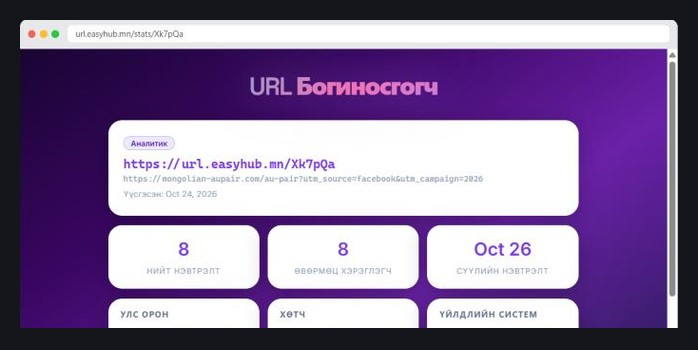
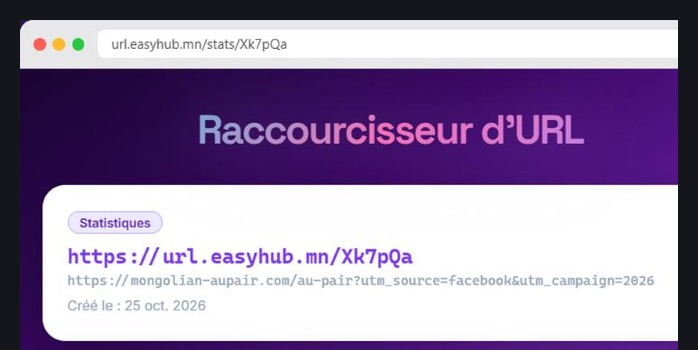
correctURL demo in French
Interface, messages, statistics labels, sample countries and dates of the
link shortener demo are now in French; guide steps and poster updated.

diff --git a/src/components/InternshipDemos.js b/src/components/InternshipDemos.js
@@ -1603,7 +1603,7 @@ const randomCode = (len = 6) =>
 
 // Validation of app/api/shorten/route.ts
 function validate(url) {
-  if (!url.trim()) return "URL оруулна уу";
+  if (!url.trim()) return "Veuillez saisir une URL";
   try {
     const parsed = new URL(url.startsWith("http") ? url : "https://" + url);
     const ok =
@@ -1612,9 +1612,9 @@ function validate(url) {
         parsed.hostname,
       ) &&
       (parsed.protocol === "http:" || parsed.protocol === "https:");
-    return ok ? "" : "Invalid URL format";
+    return ok ? "" : "Format d’URL invalide";
   } catch {
-    return "Invalid URL format";
+    return "Format d’URL invalide";
   }
 }
 
@@ -1647,13 +1647,13 @@ function detect() {
 function seedLinks() {
   const base = Date.now() - 3 * 86400000;
   const sample = [
-    ["Chrome", "Android", "Mongolia", "Ulaanbaatar"],
-    ["Safari", "iOS", "Mongolia", "Ulaanbaatar"],
-    ["Chrome", "Windows", "Mongolia", "Darkhan"],
-    ["Chrome", "Android", "Germany", "Berlin"],
-    ["Edge", "Windows", "Mongolia", "Ulaanbaatar"],
-    ["Safari", "iOS", "Austria", "Vienna"],
-    ["Chrome", "Android", "Mongolia", "Erdenet"],
+    ["Chrome", "Android", "Mongolie", "Oulan-Bator"],
+    ["Safari", "iOS", "Mongolie", "Oulan-Bator"],
+    ["Chrome", "Windows", "Mongolie", "Darkhan"],
+    ["Chrome", "Android", "Allemagne", "Berlin"],
+    ["Edge", "Windows", "Mongolie", "Oulan-Bator"],
+    ["Safari", "iOS", "Autriche", "Vienne"],
+    ["Chrome", "Android", "Mongolie", "Erdenet"],
     ["Firefox", "Linux", "France", "Limoges"],
   ];
   return [
@@ -1680,7 +1680,7 @@ function BarList({ visits, keyName }) {
   });
   const items = Object.entries(counts).sort((a, b) => b[1] - a[1]);
   const max = items.length ? items[0][1] : 1;
-  if (!items.length) return <p className="cu__no-data">Мэдээлэл байхгүй</p>;
+  if (!items.length) return <p className="cu__no-data">Aucune donnée</p>;
   return (
     <ul className="cu__bars">
       {items.map(([name, n]) => (
@@ -1766,7 +1766,7 @@ export function ShortenerDemo() {
   };
 
   const link = links.find((l) => l.code === statsCode);
-  const fmt = (d, o) => new Date(d).toLocaleString("mn-MN", o);
+  const fmt = (d, o) => new Date(d).toLocaleString("fr-FR", o);
   const urlBar =
     page === "home" ? "" : page === "links" ? "links" : `stats/${statsCode}`;
 
@@ -1774,9 +1774,9 @@ export function ShortenerDemo() {
     <BrowserFrame url={`${HOST}/${urlBar}`} className="cu-frame">
       <div className="cu">
         <header className="cu__header">
-          <h1>URL Богиносгогч</h1>
+          <h1>Raccourcisseur d’URL</h1>
           {page !== "stats" && (
-            <p>Урт URL-аа богиносгоод цэвэрхэн линк аваарай</p>
+            <p>Raccourcissez vos longues URL et obtenez un lien propre</p>
           )}
         </header>
 
@@ -1786,7 +1786,7 @@ export function ShortenerDemo() {
               value={input}
               onChange={(e) => setInput(e.target.value)}
               onKeyDown={(e) => e.ctrlKey && e.key === "Enter" && shorten()}
-              placeholder="Урт URL-аа энд буулгаарай..."
+              placeholder="Collez votre longue URL ici…"
               aria-label="URL"
             />
             {error && <p className="cu__err">{error}</p>}
@@ -1796,13 +1796,13 @@ export function ShortenerDemo() {
                 onClick={shorten}
                 disabled={loading}
               >
-                {loading ? "Богиносгож байна..." : "Богиносгох"}
+                {loading ? "Raccourcissement…" : "Raccourcir"}
               </button>
               <button
                 className="cu__btn cu__btn--ghost"
                 onClick={() => setPage("links")}
               >
-                Миний линкүүд →
+                Mes liens →
               </button>
               <button
                 className="cu__btn cu__btn--ghost cu__btn--try"
@@ -1825,20 +1825,20 @@ export function ShortenerDemo() {
                 className="cu__btn cu__btn--primary"
                 onClick={() => setPage("home")}
               >
-                + Шинэ URL богиносгох
+                + Raccourcir une nouvelle URL
               </button>
             </div>
             {links.length === 0 && (
               <div className="cu__card cu__empty">
-                Линк байхгүй байна. "+ Шинэ URL богиносгох" дарж эхлээрэй.
+                Aucun lien. Cliquez sur « + Raccourcir une nouvelle URL » pour commencer.
               </div>
             )}
             {links.map((l) => (
               <div className="cu__card cu__link" key={l.code}>
                 <div className="cu__link-top">
-                  <span className="cu__badge">Богино линк</span>
+                  <span className="cu__badge">Lien court</span>
                   <span className="cu__visits">
-                    {l.visits.length} нэвтэрсэн
+                    {l.visits.length} visites
                   </span>
                 </div>
                 <button
@@ -1854,13 +1854,13 @@ export function ShortenerDemo() {
                     className="cu__btn cu__btn--primary"
                     onClick={() => visit(l.code)}
                   >
-                    Нээх →
+                    Ouvrir →
                   </button>
                   <button
                     className={`cu__copy ${copied === l.code ? "is-copied" : ""}`}
                     onClick={() => copy(l.code)}
                   >
-                    {copied === l.code ? "✓ Хуулагдлаа" : "Хуулах"}
+                    {copied === l.code ? "✓ Copié" : "Copier"}
                   </button>
                   <button
                     className="cu__btn cu__btn--ghost"
@@ -1869,7 +1869,7 @@ export function ShortenerDemo() {
                       setPage("stats");
                     }}
                   >
-                    Аналитик
+                    Statistiques
                   </button>
                   <button
                     className="cu__delete"
@@ -1889,13 +1889,13 @@ export function ShortenerDemo() {
         {page === "stats" && link && (
           <>
             <div className="cu__card">
-              <span className="cu__badge cu__badge--purple">Аналитик</span>
+              <span className="cu__badge cu__badge--purple">Statistiques</span>
               <p className="cu__stats-short">
                 https://{HOST}/{link.code}
               </p>
               <p className="cu__orig">{link.originalUrl}</p>
               <p className="cu__meta">
-                Үүсгэсэн:{" "}
+                Créé le :{" "}
                 {fmt(link.createdAt, {
                   year: "numeric",
                   month: "short",
@@ -1905,14 +1905,14 @@ export function ShortenerDemo() {
             </div>
             <div className="cu__stat-grid">
               {[
-                ["Нийт нэвтрэлт", link.visits.length],
+                ["Visites totales", link.visits.length],
                 [
-                  "Өвөрмөц хэрэглэгч",
+                  "Visiteurs uniques",
                   new Set(link.visits.map((v) => v.browser + v.os + v.city))
                     .size,
                 ],
                 [
-                  "Сүүлийн нэвтрэлт",
+                  "Dernière visite",
                   link.visits.length
                     ? fmt(link.visits[link.visits.length - 1].at, {
                         month: "short",
@@ -1929,9 +1929,9 @@ export function ShortenerDemo() {
             </div>
             <div className="cu__charts">
               {[
-                ["Улс орон", "country"],
-                ["Хөтч", "browser"],
-                ["Үйлдлийн систем", "os"],
+                ["Pays", "country"],
+                ["Navigateur", "browser"],
+                ["Système", "os"],
               ].map(([t, k]) => (
                 <div className="cu__card" key={k}>
                   <h2>{t}</h2>
@@ -1941,16 +1941,16 @@ export function ShortenerDemo() {
             </div>
             {link.visits.length > 0 && (
               <div className="cu__card">
-                <h2>Сүүлийн нэвтрэлтүүд</h2>
+                <h2>Dernières visites</h2>
                 <div className="cu__table-wrap">
                   <table className="cu__table">
                     <thead>
                       <tr>
-                        <th>Цаг</th>
-                        <th>Хөтч</th>
-                        <th>ҮС</th>
-                        <th>Улс</th>
-                        <th>Хот</th>
+                        <th>Date</th>
+                        <th>Navigateur</th>
+                        <th>Système</th>
+                        <th>Pays</th>
+                        <th>Ville</th>
                       </tr>
                     </thead>
                     <tbody>
@@ -1980,7 +1980,7 @@ export function ShortenerDemo() {
             )}
             <div className="cu__center">
               <button className="cu__back" onClick={() => setPage("links")}>
-                ← Буцах
+                ← Retour
               </button>
             </div>
           </>

diff --git a/src/demoGuides.js b/src/demoGuides.js
@@ -73,9 +73,9 @@ const demoGuides = {
         'Mettre l’outil en production sur un serveur Linux (Docker, Nginx), avec un blocage des robots.',
       ],
       steps: [
-        'Collez une adresse (ou cliquez sur « Exemple ») puis « Богиносгох » (raccourcir).',
-        'Cliquez sur « Нээх → » (ouvrir) : le compteur de visites augmente.',
-        'Cliquez sur « Аналитик » pour voir les statistiques du lien.',
+        'Collez une adresse (ou cliquez sur « Exemple »), puis sur « Raccourcir ».',
+        'Cliquez sur « Ouvrir → » : le compteur de visites augmente.',
+        'Cliquez sur « Statistiques » pour voir les visites par pays, navigateur et système.',
       ],
     },
     en: {
@@ -87,9 +87,9 @@ const demoGuides = {
         'Run it in production on a Linux server (Docker, Nginx), with bot blocking.',
       ],
       steps: [
-        'Paste an address (or click “Exemple”) then “Богиносгох” (shorten).',
-        'Click “Нээх →” (open): the visit counter goes up.',
-        'Click “Аналитик” to see the link’s statistics.',
+        'Paste an address (or click “Exemple”), then “Raccourcir” (shorten).',
+        'Click “Ouvrir →” (open): the visit counter goes up.',
+        'Click “Statistiques” to see visits by country, browser and system.',
       ],
     },
   },
